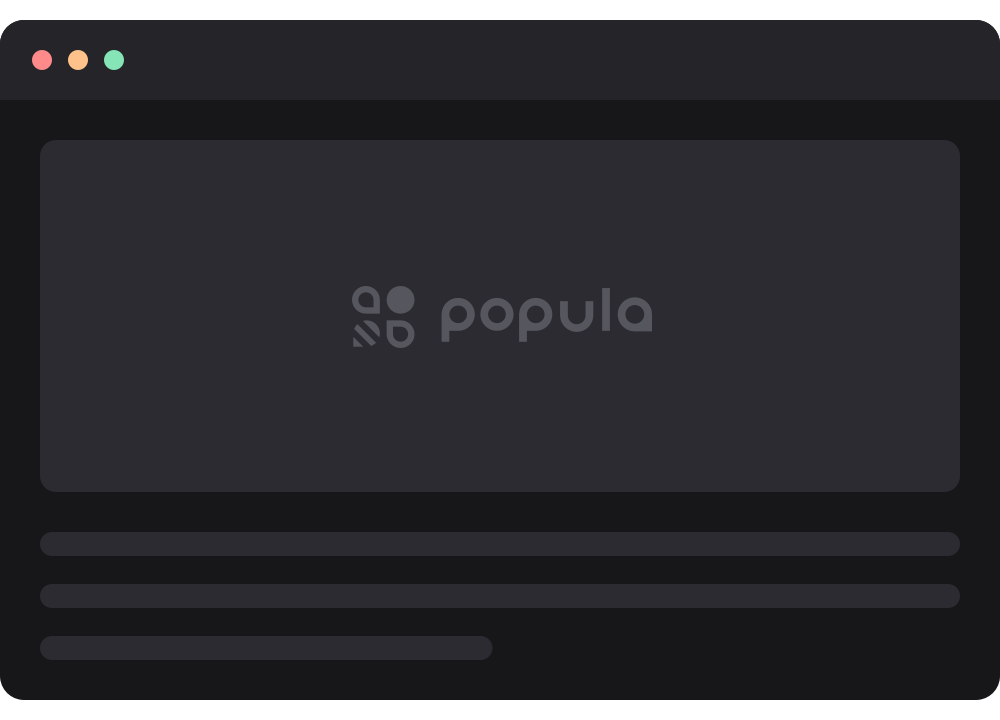
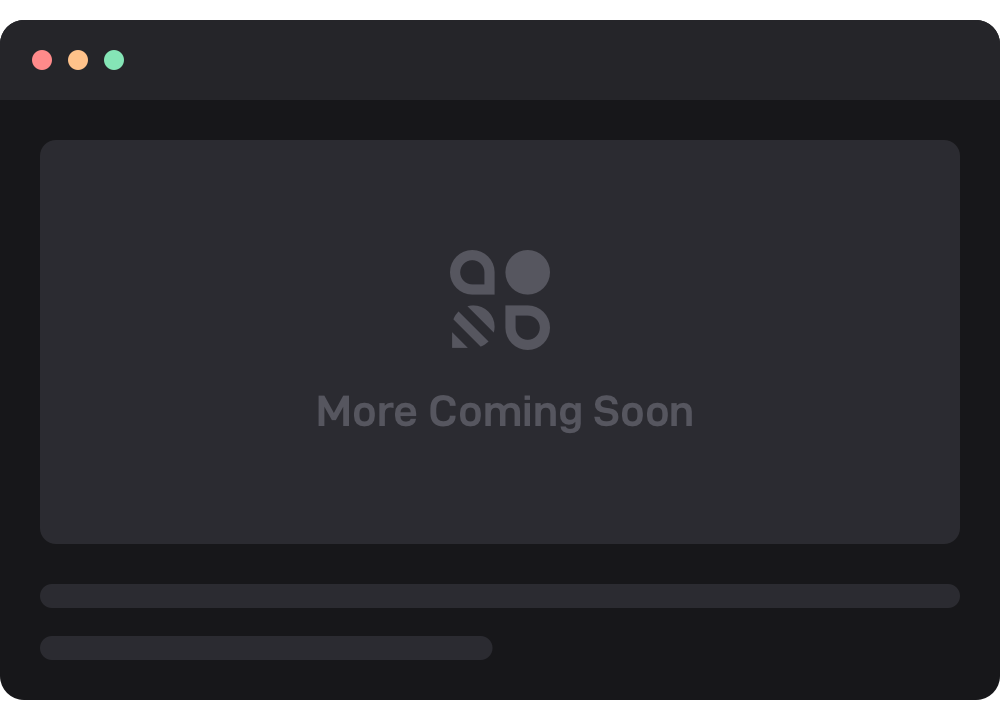
homepage revise

Changed region(s): [[0.341, 0.3361, 0.651, 0.4889], [0.31, 0.55, 0.713, 0.6111]]

diff --git a/src/views/index.vue b/src/views/index.vue
@@ -9,10 +9,10 @@
           Happens
         </div>
         <div class="button-box">
-          <a class="button-register" href="https://0smaupbwvz0.typeform.com/to/BYx9MMTZ?typeform-source=popula.io" target="_blank">Creator Register</a>
           <div class="button-border" @click="$router.push('/explore')">
             <div class="button">Explore</div>
           </div>
+          <a class="button-register" href="https://0smaupbwvz0.typeform.com/to/BYx9MMTZ?typeform-source=popula.io" target="_blank">Creator Register</a>
         </div>
       </div>
     </div>
@@ -88,15 +88,18 @@
           </div>
           <img src="@/assets/images/index/token-gating.png">
         </div>
+
+        <div class="mod coming-soon">
+          <img src="@/assets/images/index/coming-soon.png">
+          <div class="content">
+            <div class="mini-title">Join Popula Server</div>
+            <a class="btn" target="_blank" href="https://discord.com/channels/861518562425176085/862183692889358376">
+              <img src="@/assets/images/index/logo-discord.png">
+            </a>
+          </div>
+        </div>
       </div>
 
-      <!-- More Coming Soon -->
-      <div class="coming-soon">
-        <div class="text">More Coming Soon<br/>Join Popula Server</div>
-        <a class="btn" target="_blank" href="https://discord.com/channels/861518562425176085/862183692889358376">
-          <img src="@/assets/images/index/logo-discord.png">
-        </a>
-      </div>
 
       <!-- Keep Vibing to Bee Popula-->
       <div class="keep-vibing">
@@ -107,63 +110,69 @@
   <!-- footer-->
   <div class="footer">
     <div class="footer-content">
-      <div class="media-list" >
-        <!-- Discord -->
-        <el-popover
-          popper-class="media-pop"
-          placement="bottom-start"
-          trigger="hover"
-          >
-          <template #reference>
-            <a class="media-item" target="_blank" href="https://discord.com/channels/861518562425176085/862183692889358376">
-              <img src="@/assets/images/common/logo-discord.png"/>
-              <img class="hover" src="@/assets/images/common/logo-discord-hover.png"/>
-            </a>
-          </template>
-          <div class="pop-box pop-tip">Discord</div>
-        </el-popover>
-        <!-- Twitter -->
-        <el-popover
-          popper-class="media-pop"
-          placement="bottom-start"
-          trigger="hover"
-          >
-          <template #reference>
-            <a class="media-item" target="_blank" href="https://twitter.com/bepopula">
-              <img src="@/assets/images/common/logo-twitter.png"/>
-              <img class="hover" src="@/assets/images/common/logo-twitter-hover.png"/>
-            </a>
-          </template>
-          <div class="pop-box pop-tip">Twitter</div>
-        </el-popover>
-        <!-- Medium -->
-        <el-popover
-          popper-class="media-pop"
-          placement="bottom-start"
-          trigger="hover"
-          >
-          <template #reference>
-            <a class="media-item" target="_blank" href="https://medium.com/@bepopula">
-              <img src="@/assets/images/common/logo-medium.png"/>
-              <img class="hover" src="@/assets/images/common/logo-medium-hover.png"/>
-            </a>
-          </template>
-          <div class="pop-box pop-tip">Medium</div>
-        </el-popover>
-        <!-- Github -->
-        <el-popover
-          popper-class="media-pop"
-          placement="bottom-start"
-          trigger="hover"
-          >
-          <template #reference>
-            <a class="media-item" target="_blank" href="https://github.com/popula-io">
-              <img src="@/assets/images/common/logo-github.png"/>
-              <img class="hover" src="@/assets/images/common/logo-github-hover.png"/>
-            </a>
-          </template>
-          <div class="pop-box pop-tip">Github</div>
-        </el-popover>
+      <div class="content">
+        <div class="media-list" >
+          <!-- Discord -->
+          <el-popover
+            popper-class="media-pop"
+            placement="bottom-start"
+            trigger="hover"
+            >
+            <template #reference>
+              <a class="media-item" target="_blank" href="https://discord.com/channels/861518562425176085/862183692889358376">
+                <img src="@/assets/images/common/logo-discord.png"/>
+                <img class="hover" src="@/assets/images/common/logo-discord-hover.png"/>
+              </a>
+            </template>
+            <div class="pop-box pop-tip">Discord</div>
+          </el-popover>
+          <!-- Twitter -->
+          <el-popover
+            popper-class="media-pop"
+            placement="bottom-start"
+            trigger="hover"
+            >
+            <template #reference>
+              <a class="media-item" target="_blank" href="https://twitter.com/bepopula">
+                <img src="@/assets/images/common/logo-twitter.png"/>
+                <img class="hover" src="@/assets/images/common/logo-twitter-hover.png"/>
+              </a>
+            </template>
+            <div class="pop-box pop-tip">Twitter</div>
+          </el-popover>
+          <!-- Medium -->
+          <el-popover
+            popper-class="media-pop"
+            placement="bottom-start"
+            trigger="hover"
+            >
+            <template #reference>
+              <a class="media-item" target="_blank" href="https://medium.com/@bepopula">
+                <img src="@/assets/images/common/logo-medium.png"/>
+                <img class="hover" src="@/assets/images/common/logo-medium-hover.png"/>
+              </a>
+            </template>
+            <div class="pop-box pop-tip">Medium</div>
+          </el-popover>
+          <!-- Github -->
+          <el-popover
+            popper-class="media-pop"
+            placement="bottom-start"
+            trigger="hover"
+            >
+            <template #reference>
+              <a class="media-item" target="_blank" href="https://github.com/popula-io">
+                <img src="@/assets/images/common/logo-github.png"/>
+                <img class="hover" src="@/assets/images/common/logo-github-hover.png"/>
+              </a>
+            </template>
+            <div class="pop-box pop-tip">Github</div>
+          </el-popover>
+        </div>
+        <a class="power" href="https://near.org/" target="_blank">
+          Powered by
+          <img class="logo-near" src="@/assets/images/index/near.png">
+        </a>
       </div>
       <div class="txt">@popula 2022</div>
     </div>
@@ -197,7 +206,7 @@ export default {
     ul.style.width = (lis[0].offsetWidth * lis.length) + "px";  
     function scroll(){
       left -= 1;
-      if(left <= -(492+60)) left = 0;
+      if(left <= -(482+60)) left = 0;
       ul.style.left = left + "px";
       requestAnimationFrame(scroll)
     }
@@ -238,7 +247,7 @@ export default {
         .button-box{
           display:flex;
           .button-register{
-            margin-right:30px;
+            margin-left:30px;
             width:200px;
             height:60px;
             border: 2px solid #FFFFFF;
@@ -247,7 +256,7 @@ export default {
             align-items: center;
             justify-content:center;
             font-family: D-DINExp-Bold;
-            font-size: 16px;
+            font-size: 15px;
             color: #FFFFFF;
             letter-spacing: 0;
             text-align: center;
@@ -279,7 +288,7 @@ export default {
         height:22px;
         overflow: hidden;
         img{
-          width:492px;
+          width:482px;
           float: left;
           margin-right:60px;
         }
@@ -367,6 +376,24 @@ export default {
           align-items: center;
           justify-content:space-between;
           margin-bottom:150px;
+          &.coming-soon{
+            .btn{
+              margin-top:40px;
+              width: 180px;
+              height: 60px;
+              background: #4154E4;
+              border-radius: 30px;
+              display:flex;
+              align-items: center;
+              justify-content:center;
+              &:hover{
+                background: #3445C6;
+              }
+              img{
+                width:110px;
+              }
+            }
+          }
           &:last-child{
             margin-bottom:130px;
           }
@@ -374,10 +401,10 @@ export default {
             width:350px;
             .mini-title{
               font-family: D-DINExp-Bold;
-              font-size: 22px;
+              font-size: 28px;
               color: #FFFFFF;
               font-weight: 700;
-              line-height:24px;
+              line-height:30px;
             }
             .intro{
               margin-top:16px;
@@ -392,29 +419,7 @@ export default {
             width:500px;
           }
         }
-      }
-      .coming-soon{
-        .text{
-          font-family: Gilroy-Black;
-          font-size: 50px;
-          color: #FFFFFF;
-          text-align: center;
-          line-height: 58px;
-          font-weight: 900;
-        }
-        .btn{
-          margin:60px auto 0;
-          width: 200px;
-          height: 60px;
-          background: #4154E4;
-          border-radius: 30px;
-          display:flex;
-          align-items: center;
-          justify-content:center;
-          img{
-            width:110px;
-          }
-        }
+
       }
       .keep-vibing{
         margin-top:170px;
@@ -425,45 +430,65 @@ export default {
     }
   }
   .footer{
-    height: 120px;
     background: #17171A;
     .footer-content{
       width:1440px;
-      height: 120px;
       padding:0 200px;
       margin:0 auto;
-      display: flex;
-      align-items: center;
-      justify-content:space-between;
-      .media-list{
+      .content{
+        height: 120px;
         display: flex;
-        justify-content: space-between;
-        .media-item{
-          display: block;
-          cursor:pointer;
-          margin-right:40px;
-          img{
-            width: 24px;
-            height: 24px;
-          }
-          img.hover{
-            display:none;
-          }
-          &:hover{
+        align-items: center;
+        justify-content:space-between;
+        .media-list{
+          display: flex;
+          justify-content: space-between;
+          .media-item{
+            display: block;
+            cursor:pointer;
+            margin-right:40px;
             img{
-              display:none;
+              width: 24px;
+              height: 24px;
             }
             img.hover{
-              display:block;
+              display:none;
+            }
+            &:hover{
+              img{
+                display:none;
+              }
+              img.hover{
+                display:block;
+              }
             }
           }
         }
+        .power{
+          height:20px;
+          font-family: D-DINExp;
+          font-size: 14px;
+          color: rgba(255,255,255,0.6);
+          font-weight: 400;
+          line-height:16px;
+          display:flex;
+          align-items: center;
+          .logo-near{
+            margin-left:10px;
+            width:60px;
+          }
+        }
+        
       }
       .txt{
+        padding:20px 0;
+        border-top:1px solid rgba(255,255,255,0.1);
         font-family: D-DINExp;
         font-size: 14px;
+        line-height:16px;
         color: rgba(255,255,255,0.6);
         font-weight: 400;
+        text-align: center;
       }
     }
     

diff --git a/src/layout/index.vue b/src/layout/index.vue
@@ -1,5 +1,5 @@
 <template>
-  <div :class="['page-box',$route.path=='/home' ? 'page-index' : '']">
+  <div :class="['page-box',$route.name=='home' ? 'page-index' : '']">
     <page-header></page-header>
     <router-view :key="$route.fullPath"></router-view>
   </div>
